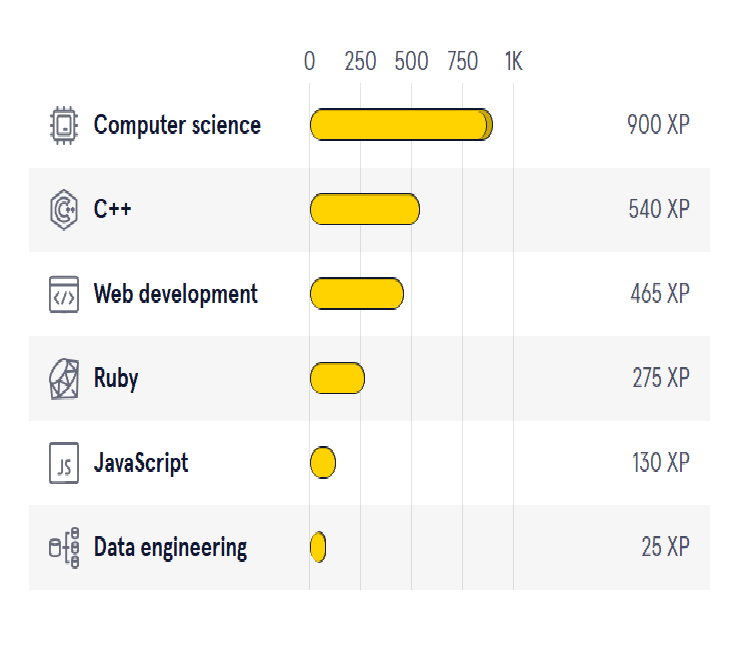
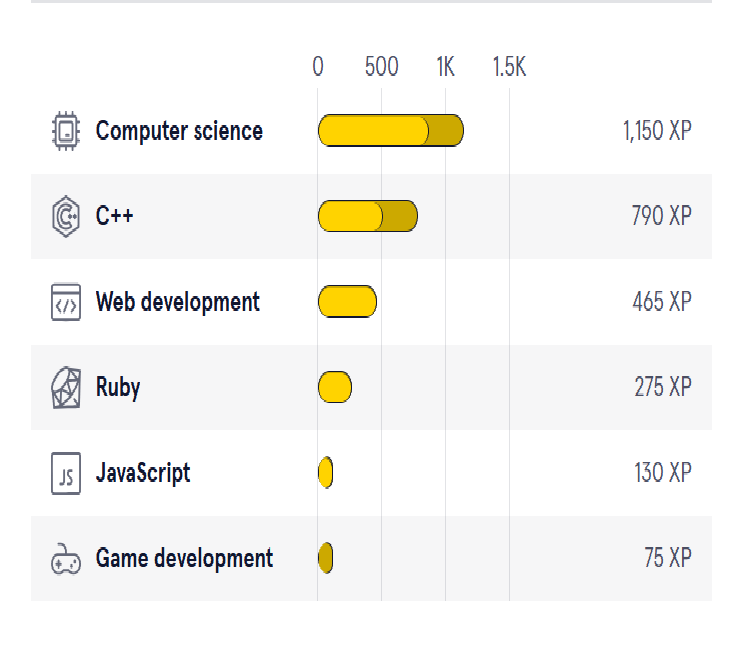
Added C++ certificate and updated Codecademy stats

diff --git a/certifications.html b/certifications.html
@@ -38,15 +38,19 @@
                       <p class="small">Issued by: Le Wagon</p>
                     </div>
                 </div>
-
-                <!-- Placeholder Certificates
                 <div class="col-6 col-md-3 mb-3 d-flex justify-content-center">
-                    <div class="project-card text-dark shadow-sm text-center">
-                        <h4 class="card-title">Self-learn Coding Certificates to follow...</h4>
+                    <div class="project-card text-center text-white shadow-sm d-flex flex-column">
+                        <h3 class="card-title">
+                          <img src="images/cplusplus.svg" alt="C++ logo" class="img-fluid mb-2 cplusplus-logo" style="max-height: 50px;">
+                          <span>Learn C++ Course</span>
+                        </h3>
+                        <img src="images/Learn C++ course certificate.png"
+                           alt="Codecademy Certificate" class="img-fluid mb-2">
+                      <p class="small">Issued by: Codecademy</p>
                     </div>
                 </div>
-
-                <div class="col-6 col-md-3 mb-3 d-flex justify-content-center">
+      <!-- Placeholder Certificates -->
+                <!-- <div class="col-6 col-md-3 mb-3 d-flex justify-content-center">
                     <div class="project-card text-dark shadow-sm text-center">
                         <h4 class="card-title">Self-learn Coding Certificates to follow...</h4>
                     </div>

diff --git a/style.css b/style.css
@@ -315,3 +315,7 @@ html, body {
   vertical-align: middle;
   filter: invert(1);   /* Makes the icon white */
 }
+ /* white C++ logo */
+ .cplusplus-logo {
+  filter: invert(1);
+}
